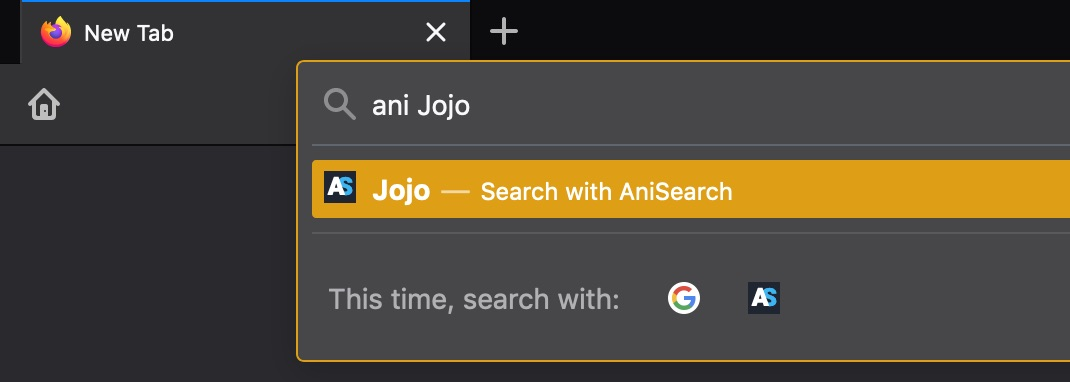
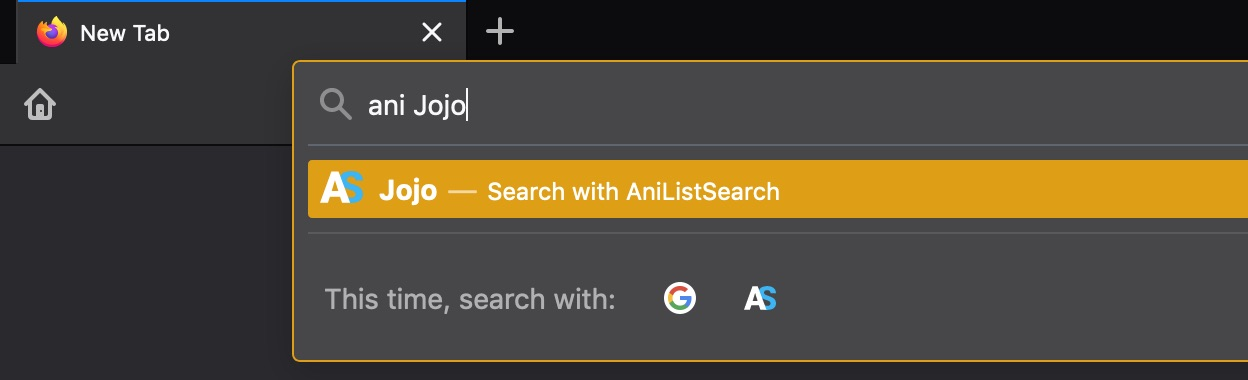
AniSearch > AniListSearch

Changed region(s): [[0.2159, 0.0, 1.0, 0.9553], [0.0, 0.0, 0.185, 0.1737], [0.0, 0.2316, 0.0617, 0.3184]]

diff --git a/index.html b/index.html
@@ -3,23 +3,23 @@
 <head>
   <meta charset="UTF-8">
   <meta name="viewport" content="width=device-width, initial-scale=1.0">
-  <title>AniSearch</title>
-  <meta name="description" content="AniSearch, an unofficial browser extension for AniList which allows you to quickly search information on AniList">
-  <meta name="keywords" content="AniSearch,AniList">
+  <title>AniListSearch</title>
+  <meta name="description" content="AniListSearch, an unofficial browser extension for AniList which allows you to quickly search information on AniList">
+  <meta name="keywords" content="AniListSearch,AniList">
   <link rel="icon" href="img/logo.svg" type="image/svg+xml">
   <link rel="stylesheet" href="vendor/fontawesome/css/all.min.css">
   <link rel="stylesheet" href="assets/style.css">
 </head>
 <body>
   <header>
-    <img src="img/logo.svg" alt="AniSearch" lazy="loaded">
-    <h1>AniSearch</h1>
+    <img src="img/logo.svg" alt="AniListSearch" lazy="loaded">
+    <h1>AniListSearch</h1>
     <h2>Quickly search information on AniList</h2>
     <div class="extension-links">
-      <a href="https://addons.mozilla.org/en-US/firefox/addon/anisearch/" title="AniSearch for Firefox">
+      <a href="https://addons.mozilla.org/en-US/firefox/addon/anilistsearch/" title="AniListSearch for Firefox">
         <i class="fab fa-firefox-browser"></i>
       </a>
-      <a href="#" title="AniSearch for Chrome">
+      <a href="#" title="AniListSearch for Chrome">
         <i class="fab fa-chrome"></i>
       </a>
     </div>
@@ -28,8 +28,8 @@
     <div class="wrapper">
       <h3>What is it?</h3>
       <div class="container">
-        <p class="big"><b>AniSearch</b> is an unofficial browser extension for <b>AniList</b> which allows you to quickly search information on <b>AniList</b>.</p>
-        <p class="big">The extension is available on <a href="https://addons.mozilla.org/en-US/firefox/addon/anisearch/" title="Firefox add-on page"><i class="fab fa-firefox-browser"></i> Firefox</a> and <a href="#" title="Chrome add-on page"><i class="fab fa-chrome"></i> Chrome</a>.</p>
+        <p class="big"><b>AniListSearch</b> is an unofficial browser extension for <b>AniList</b> which allows you to quickly search information on <b>AniList</b>.</p>
+        <p class="big">The extension is available on <a href="https://addons.mozilla.org/en-US/firefox/addon/anilistsearch/" title="Firefox add-on page"><i class="fab fa-firefox-browser"></i> Firefox</a> and <a href="#" title="Chrome add-on page"><i class="fab fa-chrome"></i> Chrome</a>.</p>
       </div>
     </div>
   </section>
@@ -41,9 +41,9 @@
         <h4>Integrated search</h4>
         <div class="row">
           <div class="container">
-            <p><b>AniSearch</b> comes with a light search interface which allows you to quickly search something on <b>AniList</b> and see results without having to go to the website itself.</p>
+            <p><b>AniListSearch</b> comes with a light search interface which allows you to quickly search something on <b>AniList</b> and see results without having to go to the website itself.</p>
             <p>You can search for anime, manga, studios, characters and staff. If you need to be a bit more specific with your search, you can also filter results by year and season for anime and manga.</p>
-            <p>If your are logged into <b>AniList</b> through <b>AniSearch</b>, the extension will also return anime and manga that are in your lists.</p>
+            <p>If your are logged into <b>AniList</b> through <b>AniListSearch</b>, the extension will also return anime and manga that are in your lists.</p>
           </div>
           <div class="screenshot">
             <img src="img/search.jpg" alt="Search screenshot" lazy="loaded">
@@ -55,7 +55,7 @@
         <h4>Browser integration</h4>
         <div class="col">
           <div class="container">
-            <p><b>AniSearch</b> adds a contextual menu that will appear when you selected a text on a page.</p>
+            <p><b>AniListSearch</b> adds a contextual menu that will appear when you selected a text on a page.</p>
             <p>This contextual menu let you immediately search the selected text on <b>AniList</b> for all type of data available.</p>
           </div>
           <div class="screenshot">
@@ -68,7 +68,7 @@
         <h4>Browser search provider</h4>
         <div class="row">
           <div class="container">
-            <p><b>AniSearch</b> adds an anime search engine to the browser.</p>
+            <p><b>AniListSearch</b> adds an anime search engine to the browser.</p>
             <p>Starting your search using the keyword <b>ani</b>, the browser will automatically switch to this search engine and execute an anime search on <b>AniList</b>!</p>
           </div>
           <div class="screenshot">
@@ -81,13 +81,13 @@
 
   <footer>
     <span>© Theo "YellowFish" Costantini 2020</span>
-    <a href="https://github.com/YellowFish085/anisearch" title="AniSearch on Github">
+    <a href="https://github.com/YellowFish085/anilistsearch" title="AniListSearch on Github">
       <i class="fab fa-github"></i>
     </a>
-    <a href="https://addons.mozilla.org/en-US/firefox/addon/anisearch/" title="AniSearch for Firefox">
+    <a href="https://addons.mozilla.org/en-US/firefox/addon/anilistsearch/" title="AniListSearch for Firefox">
       <i class="fab fa-firefox-browser"></i>
     </a>
-    <a href="#" title="AniSearch for Chrome">
+    <a href="#" title="AniListSearch for Chrome">
       <i class="fab fa-chrome"></i>
     </a>
   </footer>
